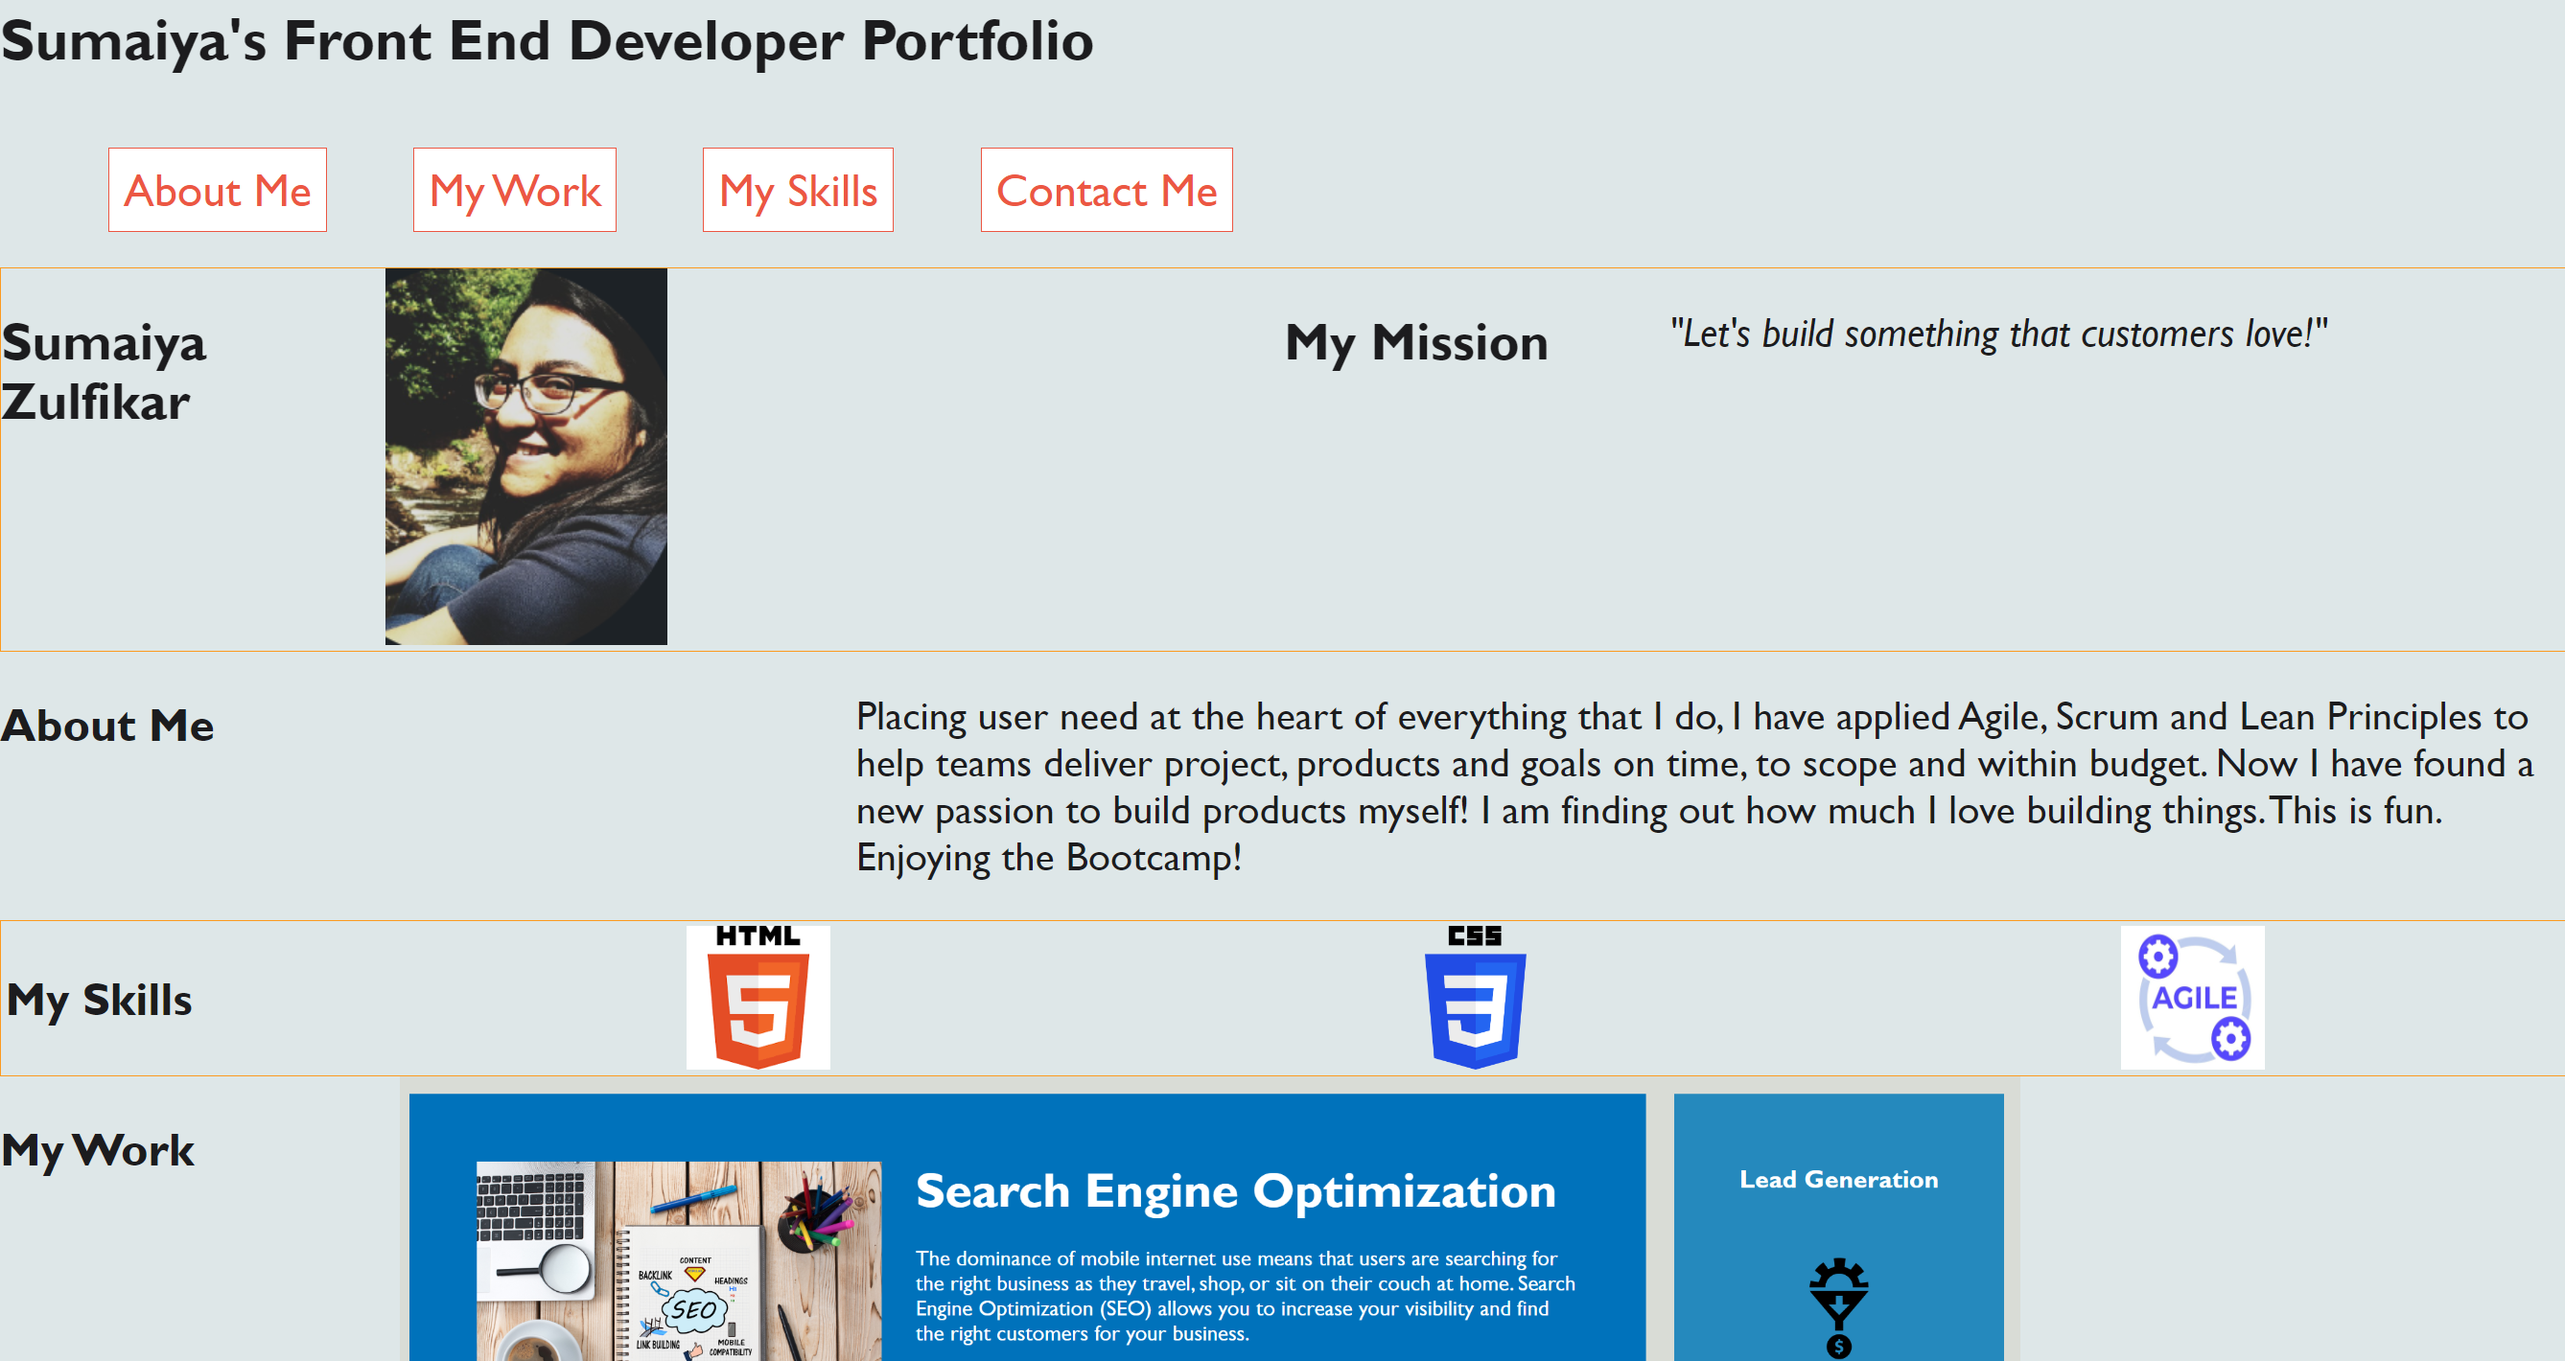
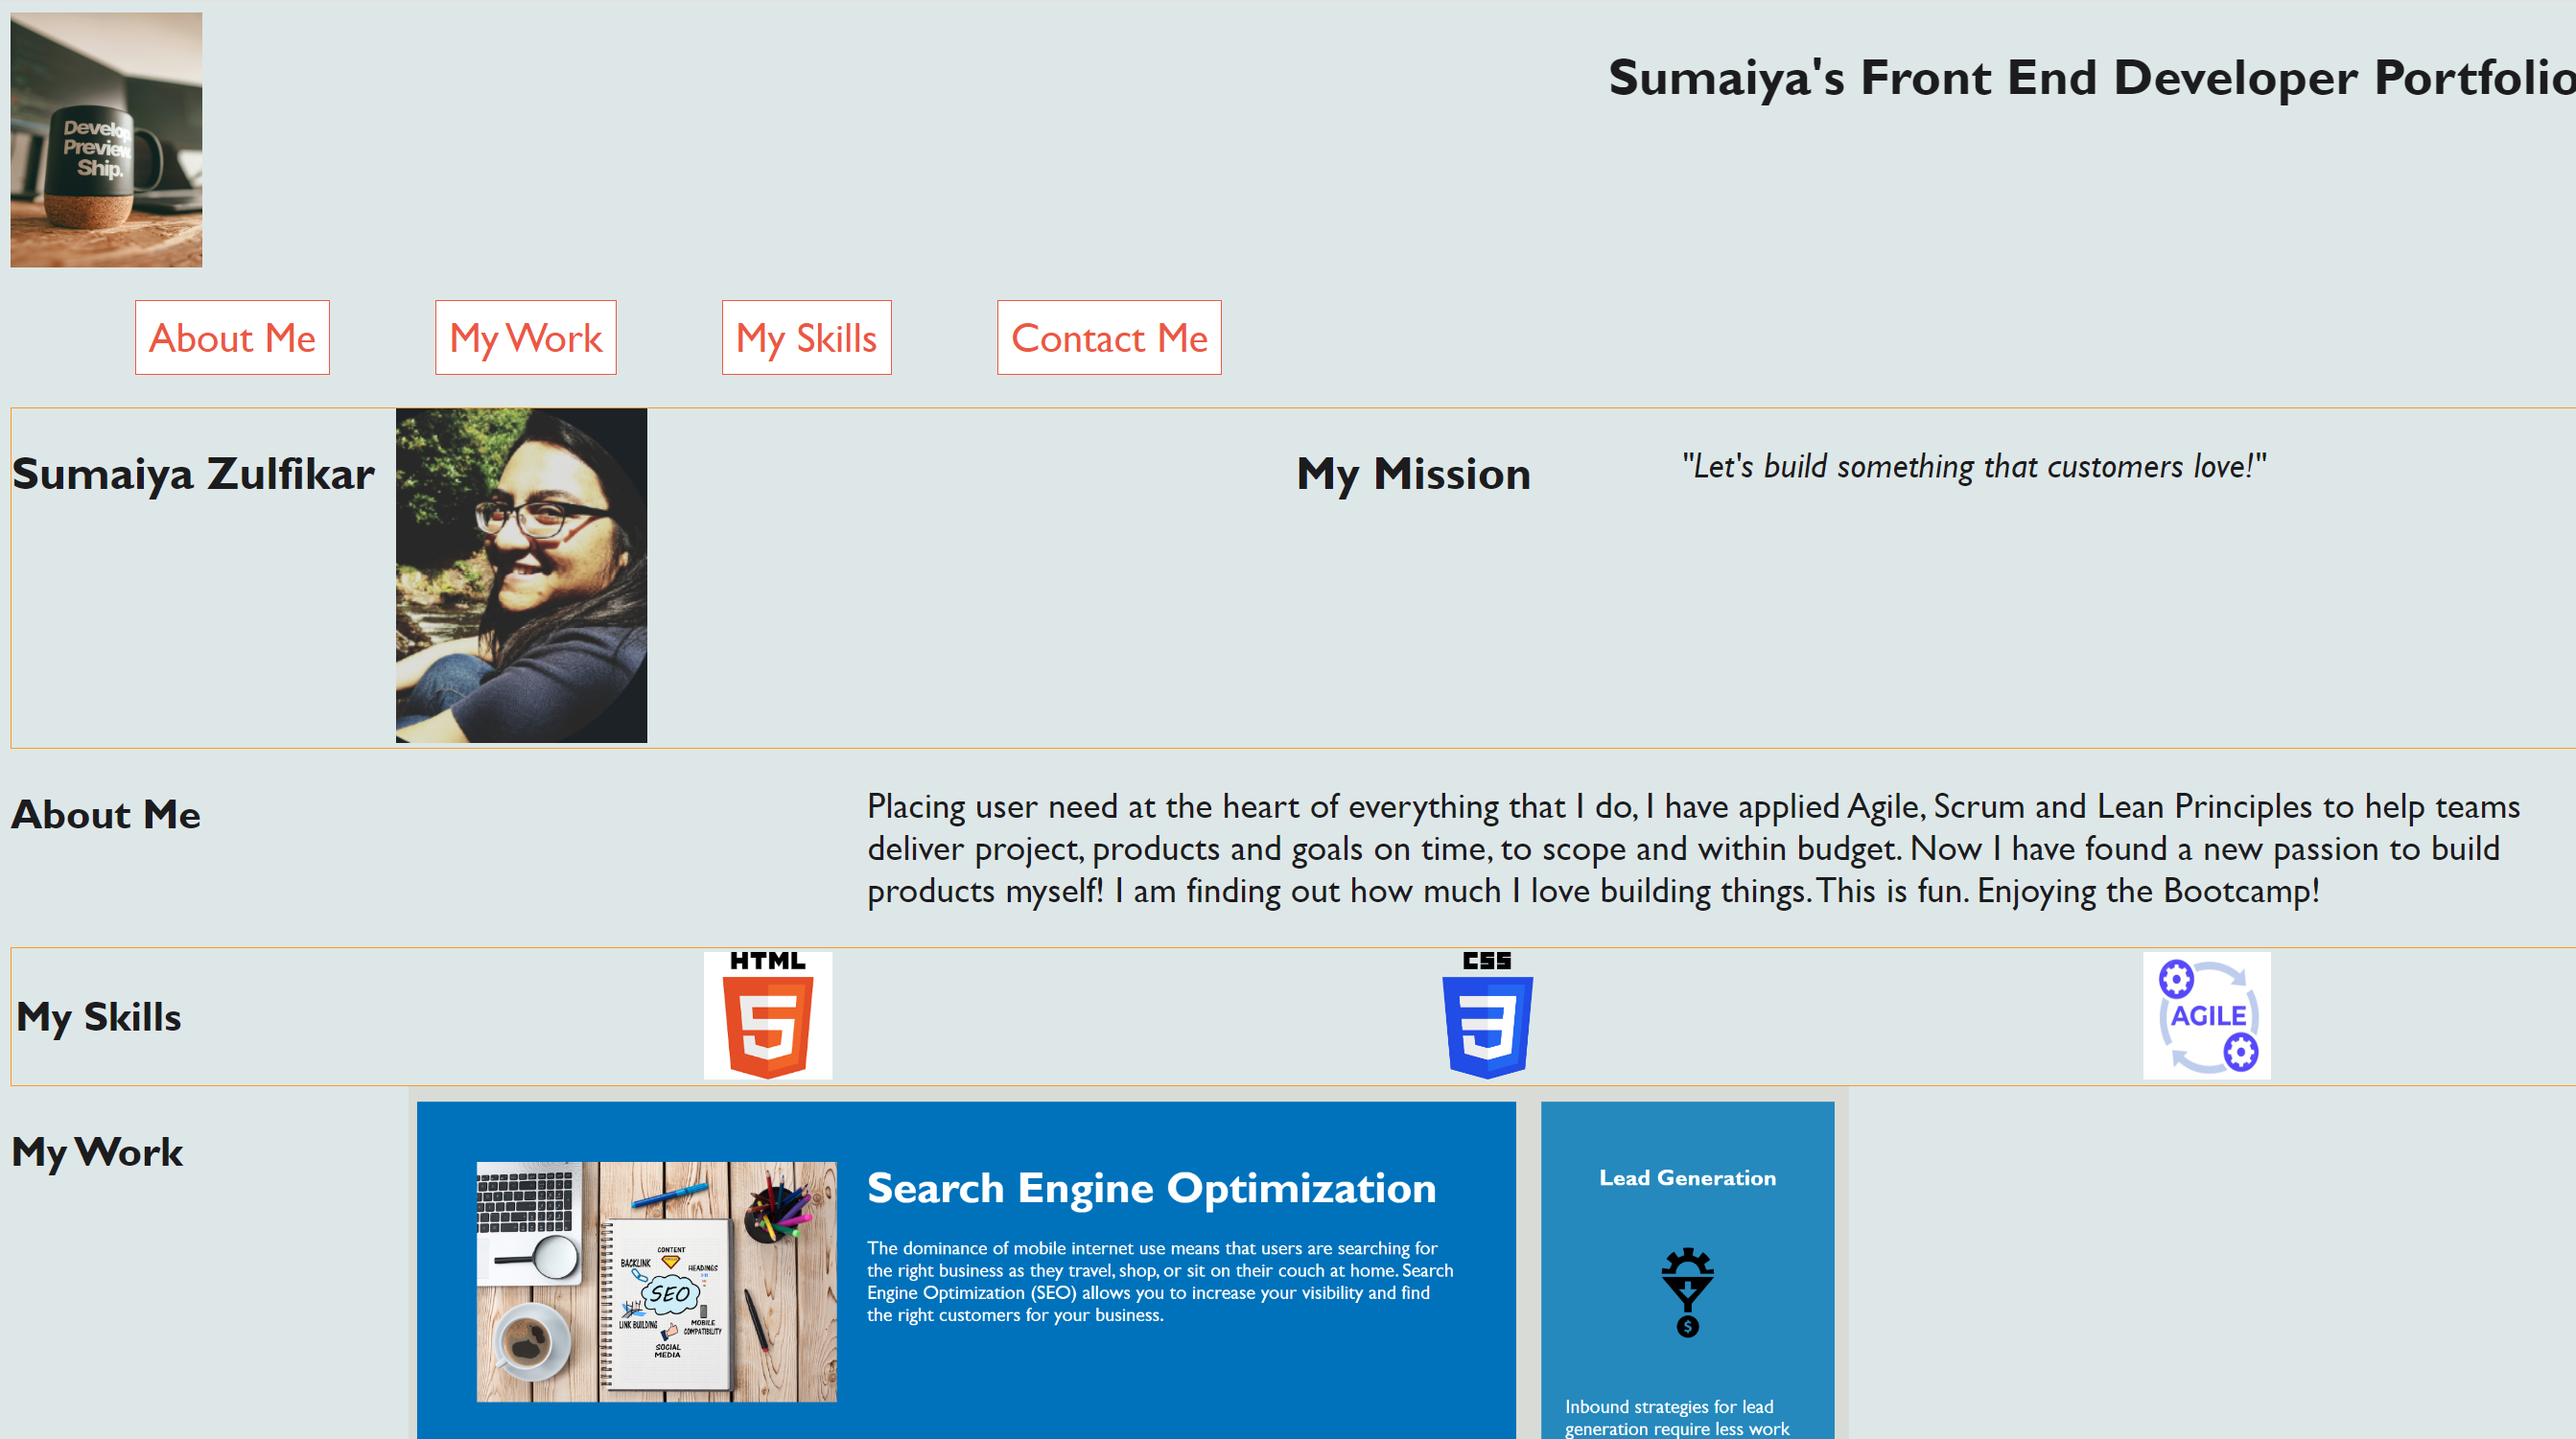
fixed ui issues with alignment

diff --git a/style.css b/style.css
@@ -1,20 +1,13 @@
-/* * {
-    outline:1px solid salmon;
-} */
-/* Global style of the webpage*//*#016295#283d5a #e5eec1#1c1c1e*#557c83#3aada8#a2d5ac*/
+/* Global style of the webpage*/
 :root {
     font-family: 'Gill Sans', 'Gill Sans MT', 'Calibri', 'Trebuchet MS', 'sans-serif';
     --light:#dee7e8;
     --pop:#ec5743;
     --yellow:#fc9a1f;
     --white:white;
- 
-   /* --h4:#04c8a1;*/
-    --text:#1c1c1e;
- 
-    /*background-color: var(--black);*/
-    
+    --text:#1c1c1e; 
 }
+
 /*Defining colour and font height for h1,h2, h3 and h4*/
 body{
     background-color: var(--light);
@@ -42,8 +35,10 @@ h4{
 
 }
 
+/*Styling for mobile responsiveness*/
+
 @media screen and (max-width: 768px) {
-    /*Mobile Device responsive navigation*/
+       /*Mobile Device responsive navigation*/
 #menu{
     display:flex;
     flex-flow:column wrap;
@@ -74,12 +69,24 @@ h4{
 
 /* Mobile Device responsive skills layout*/
 #logo{
-    grid-area: logo;
+     grid-area: logo;
      display: flex;
      flex-direction: column;
      justify-content: space-around;
-     /* align-items: center; */
+     align-items: center; 
  }
+
+ /*Mobile Device responsive My Works Section*/
+#my-work{
+    display: grid;
+    grid-template-rows: 1fr 2fr 1fr 1fr;
+    grid-template-columns: 1fr;
+    grid-template-areas:"work"
+                         "first-app1" 
+                         "second-app"
+                         "third-app"; 
+      
+}
  /* Mobile Device responsive footer*/
  footer{
     display: flex;
@@ -89,6 +96,8 @@ h4{
 }
 
 }
+/*Styling for desktop responsiveness*/
+
 @media screen and (min-width:  992px) {
 /*Desktop Device responsive Navigation*/
 #menu{
@@ -100,6 +109,8 @@ h4{
     padding:20px;
 
  }
+
+ 
 /*Desktop Device responsive Summary*/
  #summary{
     display: grid;
@@ -117,7 +128,7 @@ h4{
     grid-template-rows: 1fr;
     grid-template-columns: 1fr 1fr 1fr;
     grid-template-areas: "about-me-title1 background1 background1";                           
-    /* border: solid 3px var(--yellow); */
+   
 }
 /* Desktop Device responsive skills layout*/
 #logo{
@@ -125,18 +136,31 @@ h4{
      display: flex;
      flex-direction: row;
      justify-content: space-around;
-     /* align-items: center; */
+   
  }
+
+ /*Desktop Device responsive My Works Section*/
+#my-work{
+    display: grid;
+    grid-template-rows: auto;
+    grid-template-columns: 15% 1fr 1fr;
+    grid-template-areas:"work first-app1 first-app1"
+                        "work second-app third-app"; 
+    overflow: hidden;
+    gap: 10px;
+}
+#first-app{
+    grid-area: 1 / 2 / 2/ span 4;
+   
+}
  /* Desktop Device responsive footer*/
  footer{
     display: flex;
     flex-direction: row;
     justify-content: space-evenly;
-
 }
 
 }
-
 
 #about-me-title{
     grid-area: about-me-title1;
@@ -160,30 +184,16 @@ h4{
     grid-area: my-skills;
 }
 
-
-
-/*Style for My Works Section*/
-
-#my-work{
-    display: grid;
-    grid-template-rows: auto;
-    grid-template-columns: 15% 1fr 1fr;
-    grid-template-areas:"work first-app1 first-app1"
-                        "work second-app third-app"; 
-    overflow: hidden;
-    gap: 10px;
-}
-
-
-#my-work{
+#menu a:hover{
+    background-color: var(--pop);
+    color: var(--light);
     
+}
+#my-work{
     grid-area:work;
     
 }
-#first-app{
-    grid-area: 1 / 2 / 2/ span 4;
-   
-}
+
 #second-app{
     grid-area: second-app;
 }
@@ -225,8 +235,16 @@ a{
 
 .container{
     display: flex;
-    flex-direction: row;
-    align-items: center;
+    flex-direction:row-reverse;
+   justify-content: space-between;
+   
+}
+.content{
+    display: flex;
+    flex-direction: column;
+    align-items: start;
+    
+
 }
 
 

diff --git a/index.html b/index.html
@@ -11,19 +11,19 @@
 <body>
 
     <header>
-         <!--Help from Sowmiyaa <nav>  <a href="#about">About Me</a>*-->
-        
         <div class="container"> 
             <h1>Sumaiya's Front End Developer Portfolio</h1>
-            <img src="./images/diego-gennaro-RSvJQ-IP_pk-unsplash.jpg" alt="coffee mug with develop description" height="500px" width="auto">
+            <img src="./images/diego-gennaro-RSvJQ-IP_pk-unsplash.jpg" alt="coffee mug with develop description" height="200px" width="150px">
         </div>
+        
+        <!--This is navigation area-->
+              
         <nav id="menu">
               <a href="#about-me" class="option">About Me</a>
               <a href="#work" class="option">My Work</a>
               <a href="#skills" class="option">My Skills</a>
               <a href="#contact-me" class="option">Contact Me</a>
-         </nav>
-         
+         </nav>   
 
     </header>
    
@@ -99,22 +99,22 @@
 
     <footer id="contact-me" >
         <h3 id="co">Contact Me</h3> 
-        <a href="sumaiya.zulfikar@yahoo.com">
-            <img src="./images/email.png" alt="Email icon" id="em">
-        </a>
-        <a href="https://www.linkedin.com/in/sumaiya-zulfikar/">
-            <img src="./images/LI-In-Bug.png" alt="linkedin logo" id="li">
-        </a>
-        <a href="https://github.com/sumzulfikar">
-        <img src="./images/GitHub-Mark-ea2971cee799.png" alt="github logo" id="git">
-        </a>
-      <pre>
-        <h4>
-            <span>&#169;</span> 2023 Sumaiya Zulfikar Right's Reserved
-           </h4>
-      </pre>
-        
-
+        <div class="content">
+            <div id="footer-icons">                            
+                <a href="https://www.linkedin.com/in/sumaiya-zulfikar/">
+                     <img src="./images/LI-In-Bug.png" alt="linkedin logo" id="li">
+                 </a>
+                <a href="https://github.com/sumzulfikar">
+                     <img src="./images/GitHub-Mark-ea2971cee799.png" alt="github logo" id="git">
+                </a>
+            </div> 
+            <div class="copyright">
+            <h4>
+                 <span>&#169;</span> 2023 Sumaiya Zulfikar Right's Reserved
+            </h4>
+     
+            </div>  
+        </div>
     </footer>
 </body>
 </html>
